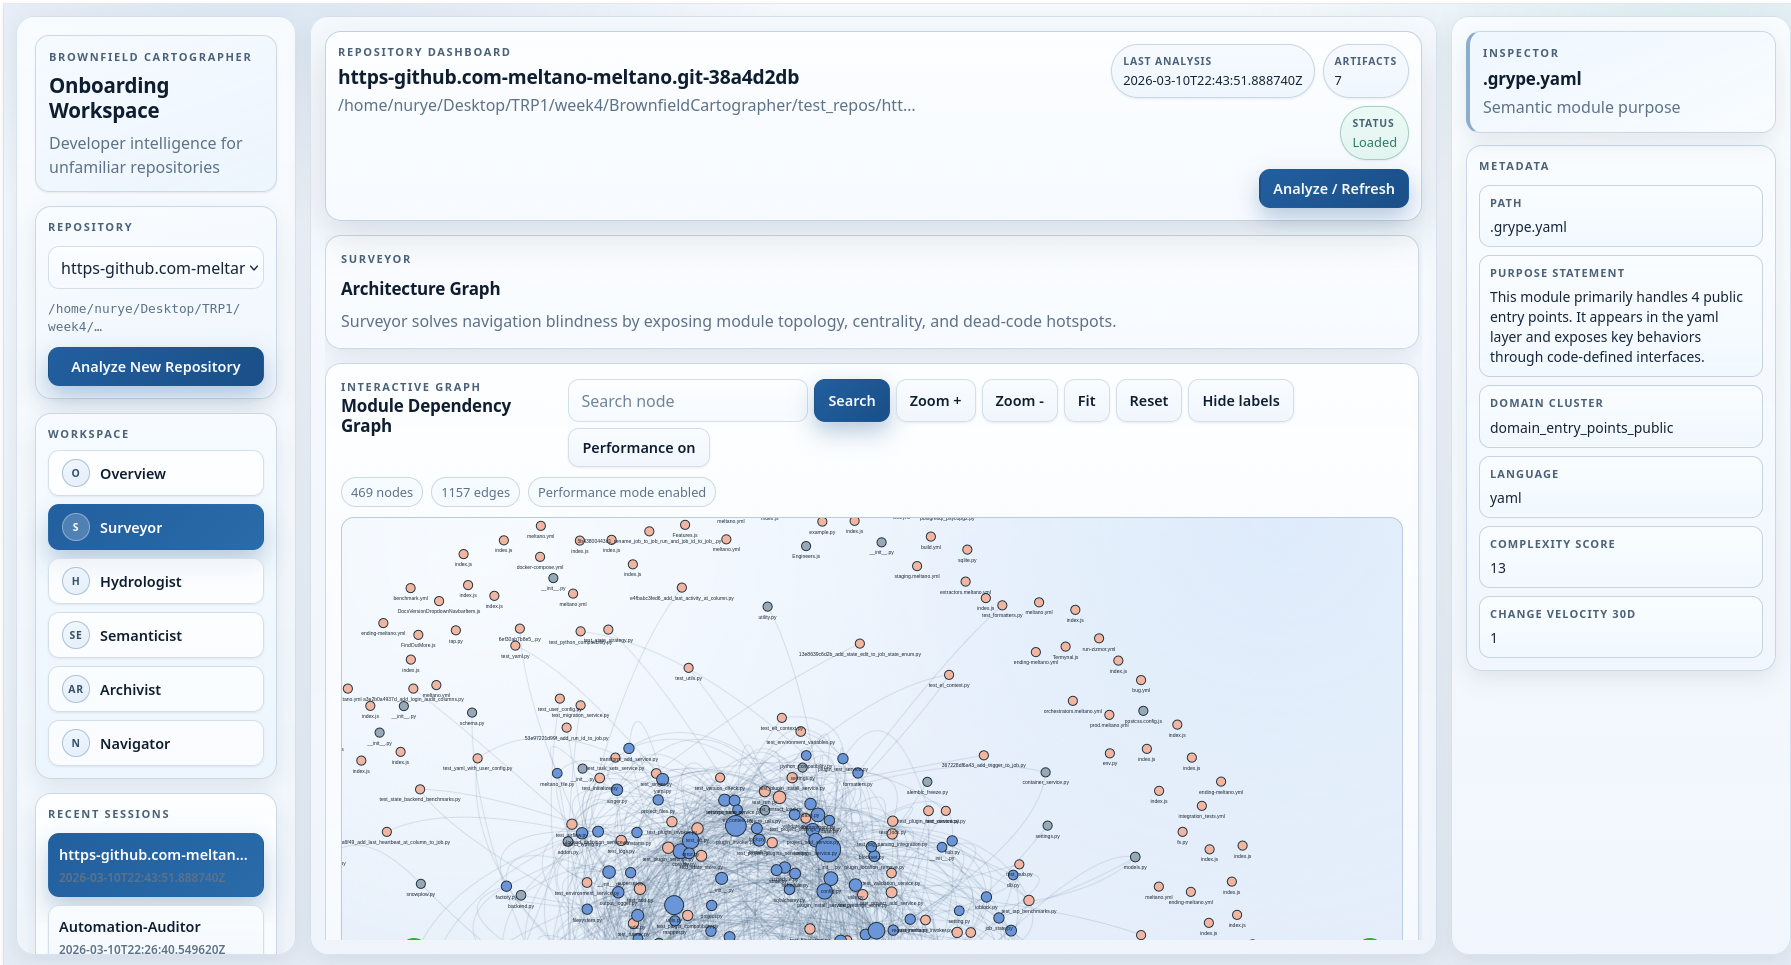
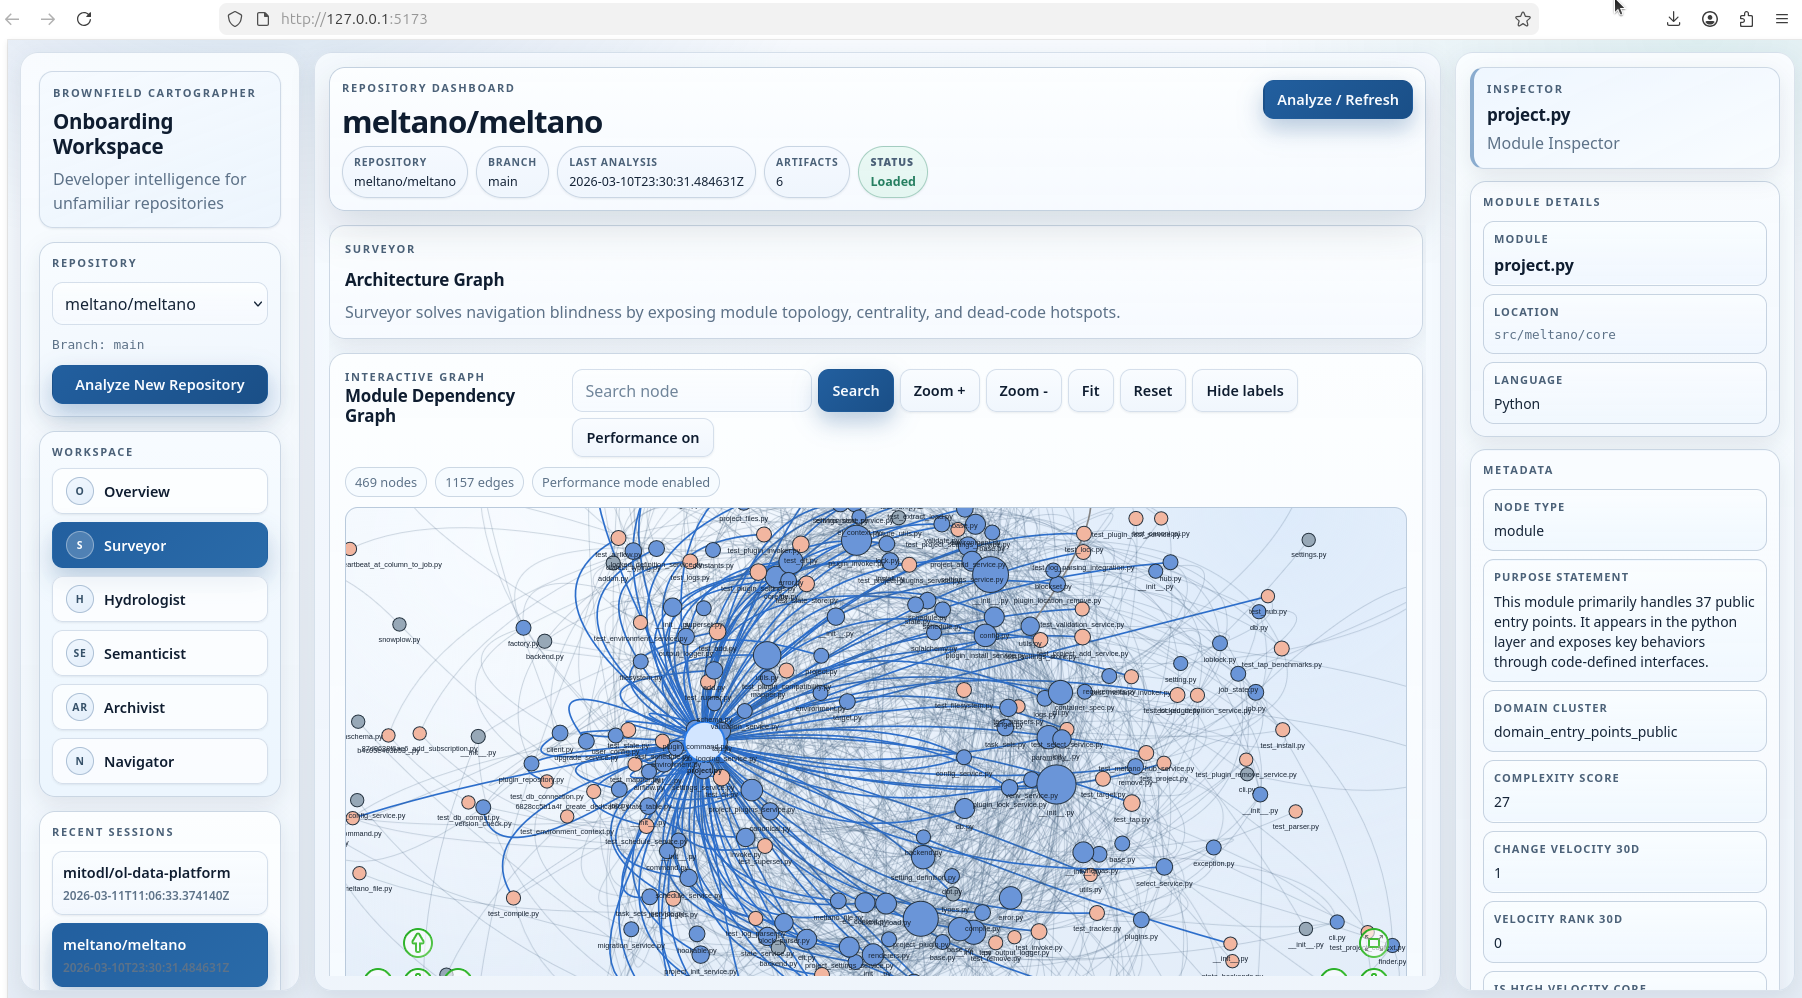
feat(frontend): add repo/branch context badges and richer module inspector presentation

diff --git a/frontend/src/App.tsx b/frontend/src/App.tsx
@@ -42,6 +42,59 @@ interface QueryHistoryItem {
   timestamp: string;
 }
 
+function splitModulePath(modulePath: string): { filename: string; folderPath: string } {
+  const normalized = modulePath.replaceAll("\\", "/").trim();
+  const parts = normalized.split("/").filter(Boolean);
+  if (!parts.length) {
+    return { filename: modulePath || "Unknown module", folderPath: "Repository root" };
+  }
+  const filename = parts[parts.length - 1] ?? modulePath;
+  const folderPath = parts.length > 1 ? parts.slice(0, -1).join("/") : "Repository root";
+  return { filename, folderPath };
+}
+
+function titleCase(input: string): string {
+  if (!input) return "Unknown";
+  return input
+    .split(/[\s_-]+/)
+    .filter(Boolean)
+    .map((part) => part[0].toUpperCase() + part.slice(1).toLowerCase())
+    .join(" ");
+}
+
+function moduleTypeFromData(data: Record<string, unknown>): string {
+  const explicit = String(data.module_type ?? "").trim();
+  if (explicit) return titleCase(explicit);
+  const language = String(data.language ?? "").trim();
+  if (language) return titleCase(language);
+  return "Unknown";
+}
+
+function buildModuleInspector(path: string, data: Record<string, unknown>, subtitle: string): InspectorState {
+  const safePath = String(path || data.module_path || data.path || data.id || "Unknown module");
+  const { filename, folderPath } = splitModulePath(safePath);
+  const {
+    path: _path,
+    module_path: _modulePath,
+    id: _id,
+    module_file: _moduleFile,
+    module_folder: _moduleFolder,
+    module_type: _moduleType,
+    language: _language,
+    ...rest
+  } = data;
+  return {
+    title: filename,
+    subtitle,
+    module_profile: {
+      filename,
+      folder_path: folderPath,
+      module_type: moduleTypeFromData(data),
+    },
+    data: rest,
+  };
+}
+
 function historyKey(repoId: string): string {
   return `cartographer-history:${repoId}`;
 }
@@ -206,7 +259,7 @@ export default function App() {
 
   async function refreshCurrentRepo() {
     if (!activeSession) return;
-    await runAnalysis(activeSession.repo_input);
+    await runAnalysis(activeSession.repo_url || activeSession.repo_input);
   }
 
   async function loadSummary(repoId: string) {
@@ -254,11 +307,16 @@ export default function App() {
     if (!activeRepoId) return;
     try {
       const details = await fetchNodeDetails(activeRepoId, graph, nodeId);
-      setInspector({
-        title: nodeId,
-        subtitle: graph === "module" ? "Architecture node" : "Lineage node",
-        data: details,
-      });
+      if (graph === "module") {
+        const modulePath = String(details.module_path ?? details.path ?? nodeId);
+        setInspector(buildModuleInspector(modulePath, details, "Module Inspector"));
+      } else {
+        setInspector({
+          title: nodeId,
+          subtitle: "Lineage node",
+          data: details,
+        });
+      }
     } catch (error) {
       setLoadingError(error instanceof Error ? error.message : "Failed to load node details");
     }
@@ -376,11 +434,7 @@ export default function App() {
             onQueryChange={setSemanticQuery}
             onSearch={searchSemantic}
             onSelectModule={(path, moduleData) =>
-              setInspector({
-                title: path,
-                subtitle: "Semantic module purpose",
-                data: moduleData,
-              })
+              setInspector(buildModuleInspector(path, moduleData, "Semantic module purpose"))
             }
           />
         ) : null}

diff --git a/frontend/src/components/HeaderBar.tsx b/frontend/src/components/HeaderBar.tsx
@@ -8,29 +8,44 @@ interface HeaderBarProps {
 }
 
 export function HeaderBar({ session, summary, onRefresh, refreshPending }: HeaderBarProps) {
+  const repository = summary?.repository;
+  const displayName =
+    repository?.display_name ?? session?.repo_display_name ?? (session ? `local/${session.repo_name}` : "No repository selected");
+  const branch = repository?.branch ?? session?.repo_branch ?? "unknown";
+  const lastAnalysis = summary?.last_analysis_timestamp ?? session?.last_analysis_timestamp ?? "Unknown";
+  const artifactCount = summary?.artifact_count ?? summary?.artifacts?.length ?? session?.available_artifacts?.length ?? 0;
+  const statusLabel = summary?.artifact_status ?? "Loaded";
+
   return (
     <header className="header-bar panel compact">
       <div className="header-main">
         <p className="eyebrow">Repository Dashboard</p>
-        <h2>{session?.repo_name ?? "No repository selected"}</h2>
-        <p className="muted">{session?.repo_input ?? "Select or analyze a repository"}</p>
-      </div>
-
-      <div className="header-right">
+        <h2 className="repo-display-name">{displayName}</h2>
         <div className="status-grid">
           <span className="status-pill">
+            <strong>Repository</strong>
+            {displayName}
+          </span>
+          <span className="status-pill">
+            <strong>Branch</strong>
+            {branch}
+          </span>
+          <span className="status-pill">
             <strong>Last Analysis</strong>
-            {summary?.last_analysis_timestamp ?? session?.last_analysis_timestamp ?? "Unknown"}
+            {lastAnalysis}
           </span>
           <span className="status-pill">
             <strong>Artifacts</strong>
-            {session?.available_artifacts?.length ?? 0}
+            {artifactCount}
           </span>
           <span className="status-pill good">
             <strong>Status</strong>
-            {summary?.artifact_status ?? "Ready"}
+            {statusLabel}
           </span>
         </div>
+      </div>
+
+      <div className="header-right">
         <button className="primary-action" onClick={onRefresh} disabled={!session || refreshPending}>
           {refreshPending ? "Analyzing..." : "Analyze / Refresh"}
         </button>

diff --git a/frontend/src/styles.css b/frontend/src/styles.css
@@ -389,20 +389,24 @@ button:disabled {
 .header-main {
   min-width: 0;
   display: grid;
-  gap: 5px;
+  gap: 8px;
 }
 
-.header-main p.muted {
-  white-space: nowrap;
-  overflow: hidden;
-  text-overflow: ellipsis;
-  max-width: min(64ch, 100%);
+.repo-display-name {
+  font-size: clamp(1.28rem, 2.2vw, 1.95rem);
+  line-height: 1.1;
+  letter-spacing: -0.03em;
+}
+
+.header-main .status-grid {
+  justify-content: flex-start;
 }
 
 .header-right {
   display: grid;
-  gap: 9px;
+  gap: 10px;
   justify-items: end;
+  align-content: start;
 }
 
 .status-grid {
@@ -415,11 +419,11 @@ button:disabled {
 .status-pill {
   display: inline-grid;
   gap: 2px;
-  padding: 8px 11px;
+  padding: 7px 11px;
   border-radius: 999px;
   border: 1px solid rgba(188, 202, 218, 0.76);
   background: linear-gradient(180deg, rgba(246, 250, 255, 0.95), rgba(239, 246, 253, 0.95));
-  font-size: 0.8rem;
+  font-size: 0.78rem;
   color: var(--text);
   box-shadow: var(--shadow-xs);
 }
@@ -435,6 +439,7 @@ button:disabled {
   color: var(--success);
   background: linear-gradient(180deg, rgba(234, 249, 244, 0.96), rgba(227, 246, 240, 0.95));
   border-color: rgba(38, 127, 97, 0.34);
+  font-weight: 610;
 }
 
 .repo-switcher {
@@ -872,6 +877,18 @@ pre {
   line-height: 1.45;
   white-space: pre-wrap;
   word-break: break-word;
+}
+
+.module-profile-list .module-file {
+  font-size: 1rem;
+  font-weight: 640;
+  color: var(--text-strong);
+}
+
+.module-profile-list .module-folder {
+  font-size: 0.79rem;
+  color: var(--muted);
+  font-family: "IBM Plex Mono", "SFMono-Regular", Menlo, monospace;
 }
 
 .intake-shell {

diff --git a/frontend/src/types.ts b/frontend/src/types.ts
@@ -6,6 +6,14 @@ export type WorkspaceView =
   | "archivist"
   | "navigator";
 
+export interface RepositoryMetadata {
+  owner: string;
+  repo_name: string;
+  branch: string;
+  display_name: string;
+  url?: string;
+}
+
 export interface ArtifactInfo {
   name: string;
   exists: boolean;
@@ -15,6 +23,10 @@ export interface ArtifactInfo {
 export interface RepoSession {
   repo_id: string;
   repo_name: string;
+  repo_owner?: string;
+  repo_branch?: string;
+  repo_display_name?: string;
+  repo_url?: string;
   repo_input: string;
   repo_path: string;
   cartography_dir: string;
@@ -28,8 +40,10 @@ export interface RepoSession {
 export interface SummaryPayload {
   repo_name: string;
   cartography_dir: string;
+  repository?: RepositoryMetadata;
   last_analysis_timestamp: string;
   artifact_status: string;
+  artifact_count?: number;
   artifacts: string[];
   metrics: {
     modules: number;
@@ -100,6 +114,11 @@ export interface QueryPayload {
 export interface InspectorState {
   title: string;
   subtitle?: string;
+  module_profile?: {
+    filename: string;
+    module_type: string;
+    folder_path: string;
+  };
   data?: Record<string, unknown>;
   evidence?: unknown;
 }

diff --git a/frontend/src/components/Sidebar.tsx b/frontend/src/components/Sidebar.tsx
@@ -41,11 +41,11 @@ export function Sidebar({
         <select value={activeRepoId} onChange={(event) => onSessionSelect(event.target.value)}>
           {sessions.map((session) => (
             <option value={session.repo_id} key={session.repo_id}>
-              {session.repo_name}
+              {session.repo_display_name ?? `local/${session.repo_name}`}
             </option>
           ))}
         </select>
-        <p className="muted tiny">{active?.repo_input ?? "No active repository"}</p>
+        <p className="muted tiny">Branch: {active?.repo_branch ?? "unknown"}</p>
         <button className="primary-action" onClick={onOpenIntake}>
           Analyze New Repository
         </button>
@@ -74,7 +74,7 @@ export function Sidebar({
                 className={session.repo_id === activeRepoId ? "active" : ""}
                 onClick={() => onSessionSelect(session.repo_id)}
               >
-                <span>{session.repo_name}</span>
+                <span>{session.repo_display_name ?? `local/${session.repo_name}`}</span>
                 <small>{session.last_analysis_timestamp}</small>
               </button>
             </li>

diff --git a/frontend/src/components/InspectorPanel.tsx b/frontend/src/components/InspectorPanel.tsx
@@ -26,6 +26,26 @@ export function InspectorPanel({ inspector }: InspectorPanelProps) {
         {inspector.subtitle ? <p className="muted">{inspector.subtitle}</p> : null}
       </div>
 
+      {inspector.module_profile ? (
+        <section className="panel compact inspector-section">
+          <p className="eyebrow">Module Details</p>
+          <dl className="inspector-list module-profile-list">
+            <div>
+              <dt>Module</dt>
+              <dd className="module-file">{inspector.module_profile.filename}</dd>
+            </div>
+            <div>
+              <dt>Location</dt>
+              <dd className="module-folder">{inspector.module_profile.folder_path}</dd>
+            </div>
+            <div>
+              <dt>Language</dt>
+              <dd>{inspector.module_profile.module_type}</dd>
+            </div>
+          </dl>
+        </section>
+      ) : null}
+
       {inspector.data ? (
         <section className="panel compact inspector-section">
           <p className="eyebrow">Metadata</p>

diff --git a/frontend/src/pages/RepoIntakePage.tsx b/frontend/src/pages/RepoIntakePage.tsx
@@ -67,8 +67,8 @@ export function RepoIntakePage({ sessions, analyzing, analyzeError, onAnalyze, o
             {sessions.slice(0, 12).map((session) => (
               <li key={session.repo_id}>
                 <button onClick={() => onOpenSession(session.repo_id)}>
-                  <strong>{session.repo_name}</strong>
-                  <span>{session.repo_input}</span>
+                  <strong>{session.repo_display_name ?? `local/${session.repo_name}`}</strong>
+                  <span>Branch: {session.repo_branch ?? "unknown"}</span>
                   <small>{session.last_analysis_timestamp}</small>
                 </button>
               </li>

diff --git a/frontend/src/pages/OverviewPage.tsx b/frontend/src/pages/OverviewPage.tsx
@@ -6,11 +6,12 @@ interface OverviewPageProps {
 }
 
 export function OverviewPage({ summary, onNavigate }: OverviewPageProps) {
+  const displayName = summary.repository?.display_name ?? summary.repo_name;
   return (
     <div className="stack">
       <section className="panel hero">
         <p className="eyebrow">Repository Summary</p>
-        <h3>{summary.repo_name}</h3>
+        <h3>{displayName}</h3>
         <p className="muted">
           Brownfield Cartographer mapped architecture, lineage, semantics, and onboarding artifacts for this repository.
         </p>
